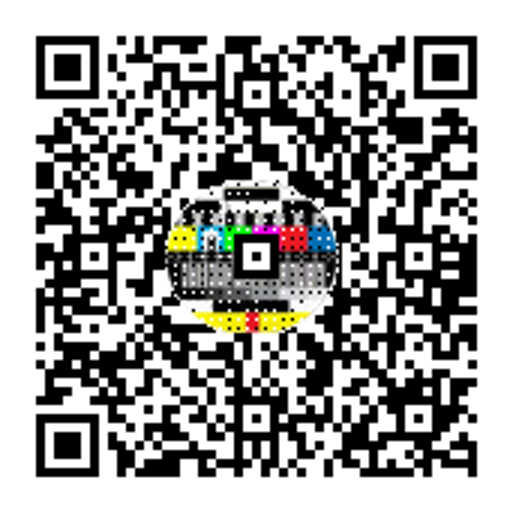
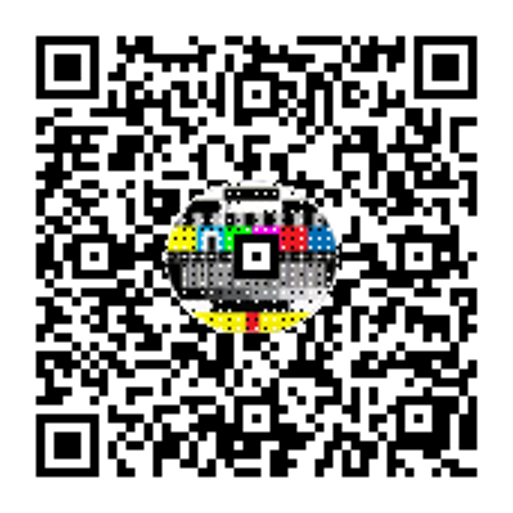
QmSrb7ogEMroL4yjHCKqyS6ELQELczdFCQh5smZtmkcTLP

diff --git a/templates/UPlanetZINE/day1/index.html b/templates/UPlanetZINE/day1/index.html
@@ -14,7 +14,7 @@
 <main class="zine">
     <header class="zine-page page-1">
         <h2><button class="print-button">🖨Print</button> L'Auto-Hébergement : Reprenez le Contrôle</h2>
-        <img class="full-img" src="/ipfs/QmcdsiQLiNkF3Xmc9A2UNa8ZnvXr3MUdBW86xFHmSFQQcj">
+        <img class="full-img" src="/ipfs/QmdrA3CToFjkwW3qkKPJVYWWnirGjhAgvvomCZqpHyUV7A">
         <pre><code class="language-css">Un guide pratique pour une vie numérique plus libre et privée.</code></pre>
     </header>
     <section class="zine-page page-2">
@@ -79,7 +79,8 @@
      <section class="zine-page page-6">
         <h2>Protégez vos données</h2>
         <p>
-            <a href="/ipfs/QmUVnKgTtbxHYY9wuSFB67cxSBabR6EUe84QRU4wSesxjb" target="_blank"><img class="half-img" src="/ipfs/QmYwYcNaD2Uh9ssPGb79JicDSXmvDwzJ2m9scas5rGms7r"></a>
+            <a href="/ipfs/QmUVnKgTtbxHYY9wuSFB67cxSBabR6EUe84QRU4wSesxjb" target="_blank">
+                <img class="half-img" src="/ipfs/QmSrb7ogEMroL4yjHCKqyS6ELQELczdFCQh5smZtmkcTLP"></a>
         </p>
         <ul>
              <li><strong>Nextcloud :</strong> Stockez et gérez vos fichiers, contacts et agendas en toute sécurité.</li>
